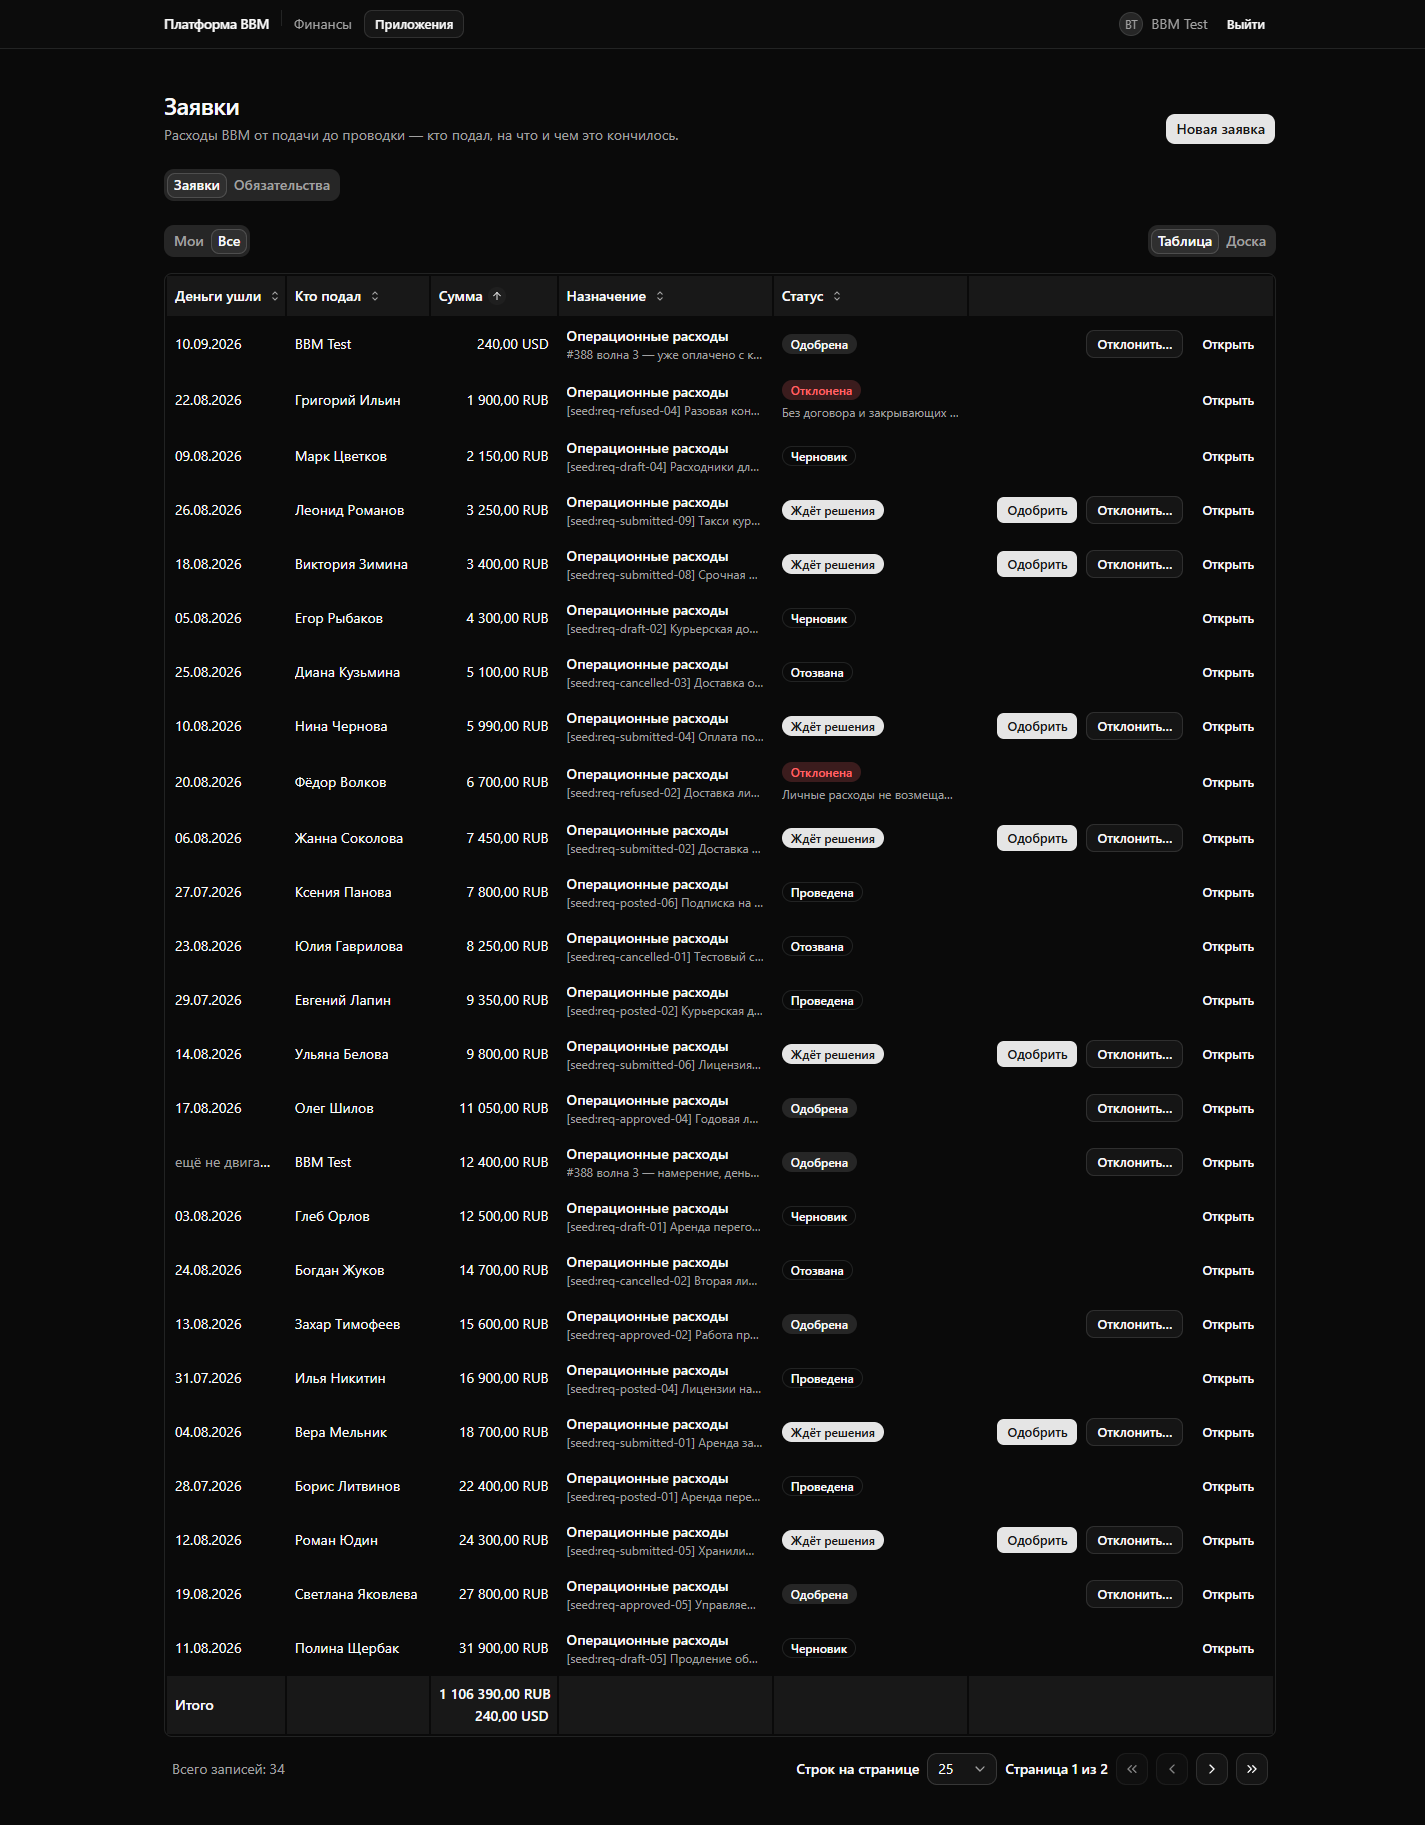
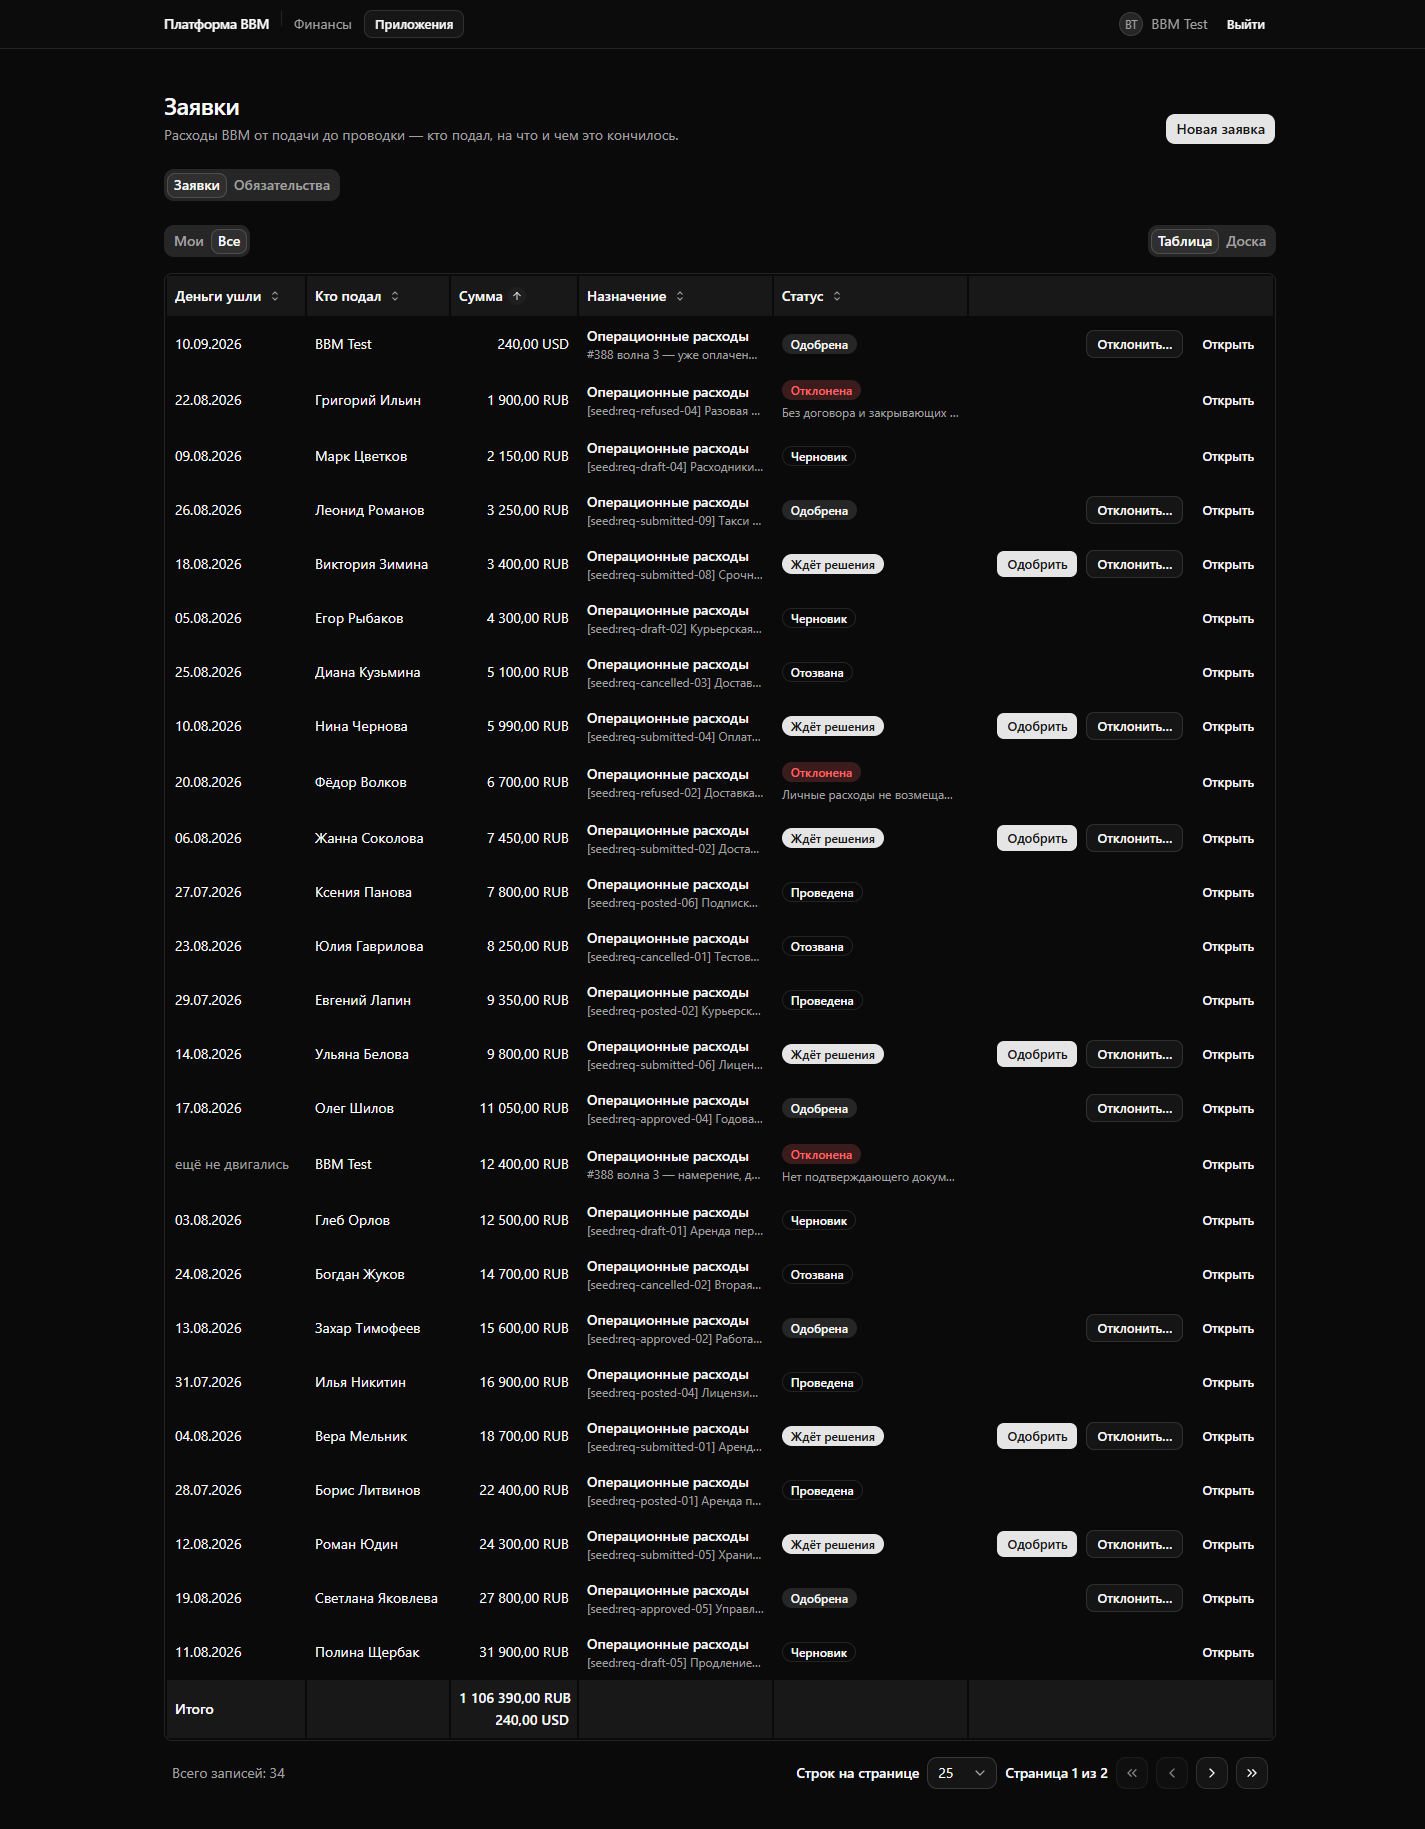
docs(evidence): #388 frames 42/48/49/66 re-taken after defect E at d0d2aae
Narrow eyes-on re-take of the four states the column re-balance touches, each ×
{1440×900, 390×844} × {light, dark}, full page, on the same stand and the same
branch DB the ninth pass left. Measured live under «Все» at 1440: the container
reads 1110 / 1110 with no overflow, the date column's cell offers 122 px inside
its padding against a placeholder that needs 122, and the count of truncated
«ещё не двигались» cells is 0 in 42, 48, 49 and 66. Defect E is closed.

No new defect over the 16 frames. Re-seen and not this diff's: the mobile sorted
frames open horizontally scrolled because the sorter sits off-screen right at
390 px, and the page-two full-page frames repaint the sticky top bar mid-page.

Claude-Session: https://claude.ai/code/session_01NPvrnp6eqzFjDoxbpLQRp7

diff --git a/docs/evidence/388/README.md b/docs/evidence/388/README.md
@@ -728,3 +728,47 @@ refusal section and closes it, and the read-only steps write nothing. No ledger
 operation is this pass's. Frames taken BEFORE 69 (12, 41, 42, 48, 49, 66, 67, 68)
 show #43 still «Одобрена»; that is the chronology of the run, not a
 disagreement.
+
+## A TENTH pass at head `d0d2aae` — defect E, and only defect E
+
+The ninth pass's one small defect — the «Деньги ушли» placeholder
+«ещё не двигались» clipped to «ещё не двига…» under «Все» at 1440, with no
+`title` to recover the words — was fixed in `d0d2aae` by re-balancing the column
+plan inside the unchanged 1110 px budget: `occurredOn` 116 → 136 px,
+`purpose` 210 → 190 px, the free-text column giving the width because no width
+ever fits its content. The four states that show it were re-taken on the same
+stand (`http://localhost:3000` from `.claude/worktrees/388`, the fix reached it
+through Fast Refresh) over the same branch DB `platform_388` the ninth pass left
+— 34 records, two currency lines, nothing written this pass. Harness:
+`.playwright-mcp/w3d-capture.cjs` and `w3d-measure.cjs`, both git-ignored.
+
+**Re-taken: 42, 48, 49, 66** — each × {1440×900, 390×844} × {light, dark}, full
+page, 16 frames replacing their same-name predecessors. What each shows is
+unchanged from the table above; every other frame of the ninth pass stands,
+because the diff moved two column widths and nothing else.
+
+**Measured live at 1440×900 under «Все», not computed.** The register's
+container reads **1110 / 1110** (`scrollWidth` / `clientWidth`) with
+`overflow=false` in all four states — the budget did not grow. The date column's
+cell is 138 px wide, 122 px inside its `p-2`, and the placeholder needs 122: it
+renders **whole**, and the count of truncated «ещё не двигались» cells is **0**
+in 42, 48, 49 and 66 (66's page carries none — every row there is posted and has
+a date). No cell in that column clips at all (`col0Clipped=0`). The header plan
+lands at 138/142/126/193/193/304 px, the table spreading the budget's slack over
+the six columns of the plan's 136/140/124/190/190/300.
+
+**How much the fixture proves.** Exactly ONE row in the 34 is pre-spend (#43,
+12 400,00 RUB, «Отклонена» since the ninth pass), and it sits on page one. The
+width is a property of the column, so one row does prove the column — but the
+evidence is one cell in three frames' worth of states, not a population.
+
+**Eyes-on over the 16 frames: no new defect.** Two things were re-seen and
+neither is this diff's: the mobile 48/49 frames open horizontally scrolled
+because the «Сортировать по сумме» control sits off-screen right at 390 px, so
+driving it scrolls the container and the frame starts at «Кто подал» (the first
+column is cut by the FRAME edge, not by a cell — the same table at rest, 42
+mobile, shows it whole); and the 66 full-page frames repaint the sticky top bar
+mid-page, the artefact the ninth pass already named for frames taken after a
+scroll. The «Назначение» comment and the refusal reason still end in an
+ellipsis: that column is the one the plan makes give width, the reason carries a
+`title`, and both were the ninth pass's non-defects.
